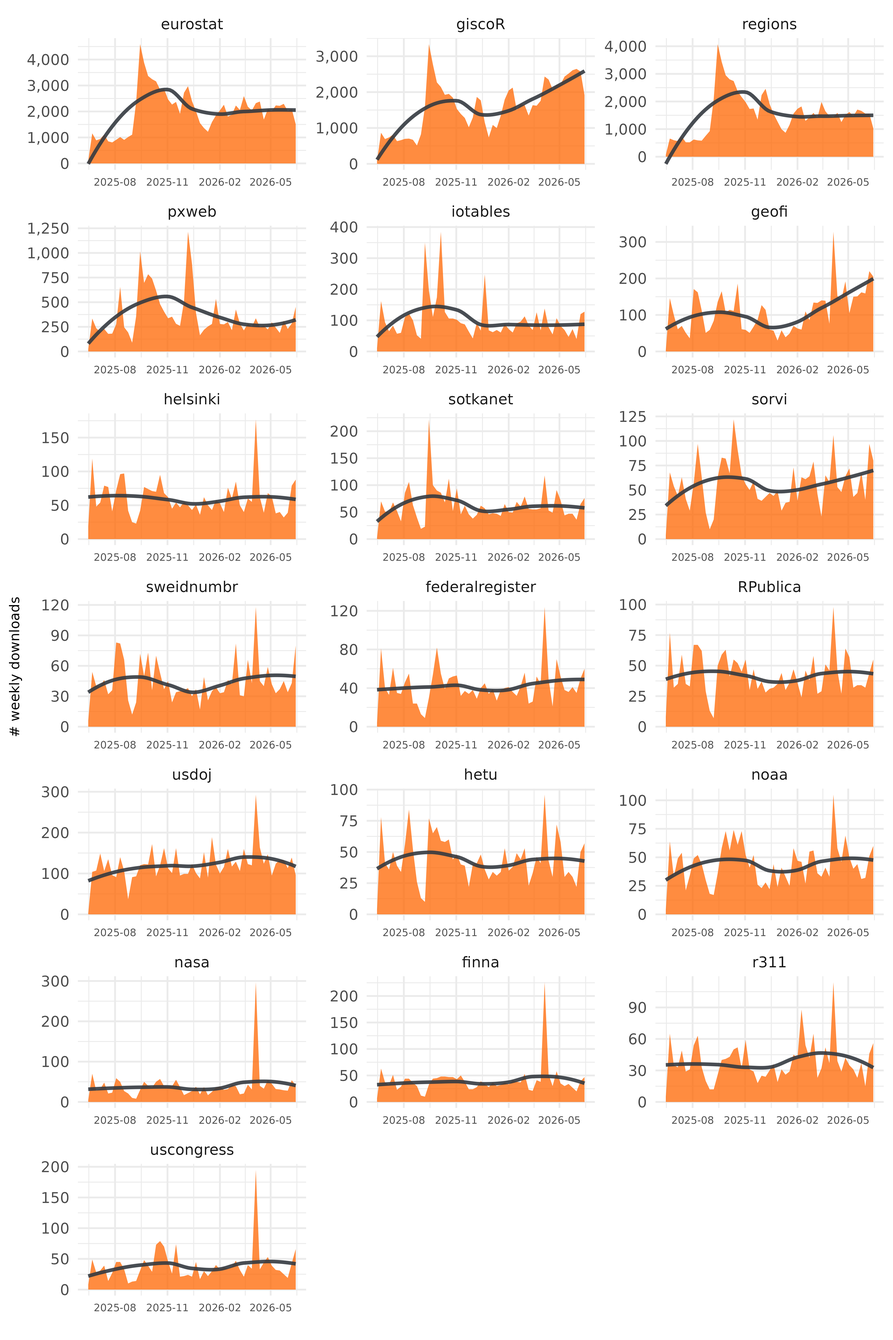
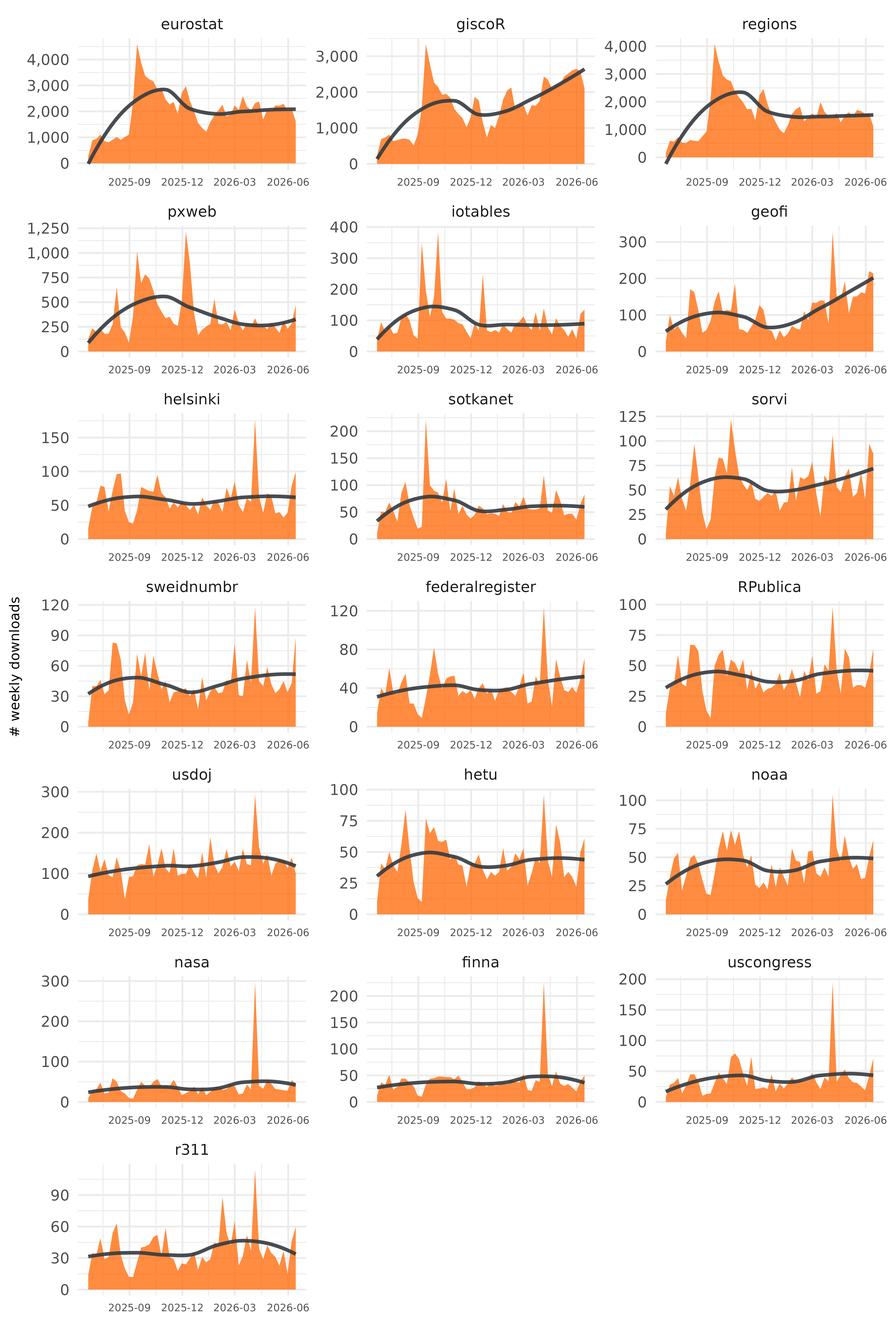
Built site for rogtemplate@0.0.2.9100: 40856eb

diff --git a/articles/downloads.html b/articles/downloads.html
@@ -97,7 +97,7 @@
 
     
     
-<p><em>Updated: 14 Jun 2026</em></p>
+<p><em>Updated: 20 Jun 2026</em></p>
 <div class="section level2">
 <h2 id="on-cran">On CRAN<a class="anchor" aria-label="anchor" href="#on-cran"></a>
 </h2>
@@ -117,7 +117,7 @@ from CRAN.</p>
 <h3 id="download-data">Download data<a class="anchor" aria-label="anchor" href="#download-data"></a>
 </h3>
 <div class="reactable html-widget html-fill-item" id="cran-dwn" style="width:auto;height:auto;"></div>
-<script type="application/json" data-for="cran-dwn">{"x":{"tag":{"name":"Reactable","attribs":{"data":{"package":["giscoR","eurostat","regions","pxweb","geofi","iotables","usdoj","helsinki","sorvi","sweidnumbr","sotkanet","uscongress","federalregister","noaa","hetu","r311","RPublica","finna","nasa"],"on CRAN":["2020-10-13","2015-03-20","2020-06-04","2014-09-04","2021-02-25","2018-01-30","2023-01-30","2014-04-13","2013-09-30","2014-09-06","2014-04-07","2025-05-12","2014-05-10","2025-05-14","2020-10-24","2024-07-16","2014-05-10","2025-01-22","2025-06-04"],"Latest CRAN Version":["2026-03-28","2023-12-19","2021-06-21","2024-01-29","2026-04-02","2025-09-01","2025-05-14","2022-12-02","2023-08-22","2024-01-13","2024-07-10","2025-10-06","2015-12-22","2025-05-14","2024-12-04","2026-01-30","2015-12-22","2025-01-22","2025-06-04"],"daily avg.":[98.3,100.9,80,28.8,14.7,15.2,7.5,12,10.6,10,10.9,5.6,9.5,6.4,6.8,5.6,8.6,5.8,5.9],"last day":[275,225,174,73,33,27,9,16,16,18,15,11,4,9,7,8,6,7,7],"last week":[1917,1509,1029,453,205,128,96,88,80,80,76,66,60,60,57,56,55,47,41],"last month":[10880,8943,6585,1353,824,383,552,258,314,224,253,168,208,200,175,163,184,149,169],"last year":[84298,105768,81372,19225,5763,5368,6396,3189,2971,2366,3321,2037,2236,2329,2334,2029,2250,2096,2092]},"columns":[{"id":"package","name":"package","type":"character","minWidth":150,"vAlign":"center","footerStyle":{"fontWeight":"bold"},"cell":[{"name":"div","attribs":{},"children":[{"name":"div","attribs":{"style":{"fontWeight":"bold"}},"children":[{"name":"a","attribs":{"href":"https://CRAN.R-project.org/package=giscoR","target":"_blank"},"children":["giscoR"]}]},{"name":"div","attribs":{"style":{"fontSize":"75%"}},"children":[{"name":"img","attribs":{"src":"https://badges.cranchecks.info/worst/giscoR.svg","alt":"giscoR"},"children":[]}]}]},{"name":"div","attribs":{},"children":[{"name":"div","attribs":{"style":{"fontWeight":"bold"}},"children":[{"name":"a","attribs":{"href":"https://CRAN.R-project.org/package=eurostat","target":"_blank"},"children":["eurostat"]}]},{"name":"div","attribs":{"style":{"fontSize":"75%"}},"children":[{"name":"img","attribs":{"src":"https://badges.cranchecks.info/worst/eurostat.svg","alt":"eurostat"},"children":[]}]}]},{"name":"div","attribs":{},"children":[{"name":"div","attribs":{"style":{"fontWeight":"bold"}},"children":[{"name":"a","attribs":{"href":"https://CRAN.R-project.org/package=regions","target":"_blank"},"children":["regions"]}]},{"name":"div","attribs":{"style":{"fontSize":"75%"}},"children":[{"name":"img","attribs":{"src":"https://badges.cranchecks.info/worst/regions.svg","alt":"regions"},"children":[]}]}]},{"name":"div","attribs":{},"children":[{"name":"div","attribs":{"style":{"fontWeight":"bold"}},"children":[{"name":"a","attribs":{"href":"https://CRAN.R-project.org/package=pxweb","target":"_blank"},"children":["pxweb"]}]},{"name":"div","attribs":{"style":{"fontSize":"75%"}},"children":[{"name":"img","attribs":{"src":"https://badges.cranchecks.info/worst/pxweb.svg","alt":"pxweb"},"children":[]}]}]},{"name":"div","attribs":{},"children":[{"name":"div","attribs":{"style":{"fontWeight":"bold"}},"children":[{"name":"a","attribs":{"href":"https://CRAN.R-project.org/package=geofi","target":"_blank"},"children":["geofi"]}]},{"name":"div","attribs":{"style":{"fontSize":"75%"}},"children":[{"name":"img","attribs":{"src":"https://badges.cranchecks.info/worst/geofi.svg","alt":"geofi"},"children":[]}]}]},{"name":"div","attribs":{},"children":[{"name":"div","attribs":{"style":{"fontWeight":"bold"}},"children":[{"name":"a","attribs":{"href":"https://CRAN.R-project.org/package=iotables","target":"_blank"},"children":["iotables"]}]},{"name":"div","attribs":{"style":{"fontSize":"75%"}},"children":[{"name":"img","attribs":{"src":"https://badges.cranchecks.info/worst/iotables.svg","alt":"iotables"},"children":[]}]}]},{"name":"div","attribs":{},"children":[{"name":"div","attribs":{"style":{"fontWeight":"bold"}},"children":[{"name":"a","attribs":{"href":"https://CRAN.R-project.org/package=usdoj","target":"_blank"},"children":["usdoj"]}]},{"name":"div","attribs":{"style":{"fontSize":"75%"}},"children":[{"name":"img","attribs":{"src":"https://badges.cranchecks.info/worst/usdoj.svg","alt":"usdoj"},"children":[]}]}]},{"name":"div","attribs":{},"children":[{"name":"div","attribs":{"style":{"fontWeight":"bold"}},"children":[{"name":"a","attribs":{"href":"https://CRAN.R-project.org/package=helsinki","target":"_blank"},"children":["helsinki"]}]},{"name":"div","attribs":{"style":{"fontSize":"75%"}},"children":[{"name":"img","attribs":{"src":"https://badges.cranchecks.info/worst/helsinki.svg","alt":"helsinki"},"children":[]}]}]},{"name":"div","attribs":{},"children":[{"name":"div","attribs":{"style":{"fontWeight":"bold"}},"children":[{"name":"a","attribs":{"href":"https://CRAN.R-project.org/package=sorvi","target":"_blank"},"children":["sorvi"]}]},{"name":"div","attribs":{"style":{"fontSize":"75%"}},"children":[{"name":"img","attribs":{"src":"https://badges.cranchecks.info/worst/sorvi.svg","alt":"sorvi"},"children":[]}]}]},{"name":"div","attribs":{},"children":[{"name":"div","attribs":{"style":{"fontWeight":"bold"}},"children":[{"name":"a","attribs":{"href":"https://CRAN.R-project.org/package=sweidnumbr","target":"_blank"},"children":["sweidnumbr"]}]},{"name":"div","attribs":{"style":{"fontSize":"75%"}},"children":[{"name":"img","attribs":{"src":"https://badges.cranchecks.info/worst/sweidnumbr.svg","alt":"sweidnumbr"},"children":[]}]}]},{"name":"div","attribs":{},"children":[{"name":"div","attribs":{"style":{"fontWeight":"bold"}},"children":[{"name":"a","attribs":{"href":"https://CRAN.R-project.org/package=sotkanet","target":"_blank"},"children":["sotkanet"]}]},{"name":"div","attribs":{"style":{"fontSize":"75%"}},"children":[{"name":"img","attribs":{"src":"https://badges.cranchecks.info/worst/sotkanet.svg","alt":"sotkanet"},"children":[]}]}]},{"name":"div","attribs":{},"children":[{"name":"div","attribs":{"style":{"fontWeight":"bold"}},"children":[{"name":"a","attribs":{"href":"https://CRAN.R-project.org/package=uscongress","target":"_blank"},"children":["uscongress"]}]},{"name":"div","attribs":{"style":{"fontSize":"75%"}},"children":[{"name":"img","attribs":{"src":"https://badges.cranchecks.info/worst/uscongress.svg","alt":"uscongress"},"children":[]}]}]},{"name":"div","attribs":{},"children":[{"name":"div","attribs":{"style":{"fontWeight":"bold"}},"children":[{"name":"a","attribs":{"href":"https://CRAN.R-project.org/package=federalregister","target":"_blank"},"children":["federalregister"]}]},{"name":"div","attribs":{"style":{"fontSize":"75%"}},"children":[{"name":"img","attribs":{"src":"https://badges.cranchecks.info/worst/federalregister.svg","alt":"federalregister"},"children":[]}]}]},{"name":"div","attribs":{},"children":[{"name":"div","attribs":{"style":{"fontWeight":"bold"}},"children":[{"name":"a","attribs":{"href":"https://CRAN.R-project.org/package=noaa","target":"_blank"},"children":["noaa"]}]},{"name":"div","attribs":{"style":{"fontSize":"75%"}},"children":[{"name":"img","attribs":{"src":"https://badges.cranchecks.info/worst/noaa.svg","alt":"noaa"},"children":[]}]}]},{"name":"div","attribs":{},"children":[{"name":"div","attribs":{"style":{"fontWeight":"bold"}},"children":[{"name":"a","attribs":{"href":"https://CRAN.R-project.org/package=hetu","target":"_blank"},"children":["hetu"]}]},{"name":"div","attribs":{"style":{"fontSize":"75%"}},"children":[{"name":"img","attribs":{"src":"https://badges.cranchecks.info/worst/hetu.svg","alt":"hetu"},"children":[]}]}]},{"name":"div","attribs":{},"children":[{"name":"div","attribs":{"style":{"fontWeight":"bold"}},"children":[{"name":"a","attribs":{"href":"https://CRAN.R-project.org/package=r311","target":"_blank"},"children":["r311"]}]},{"name":"div","attribs":{"style":{"fontSize":"75%"}},"children":[{"name":"img","attribs":{"src":"https://badges.cranchecks.info/worst/r311.svg","alt":"r311"},"children":[]}]}]},{"name":"div","attribs":{},"children":[{"name":"div","attribs":{"style":{"fontWeight":"bold"}},"children":[{"name":"a","attribs":{"href":"https://CRAN.R-project.org/package=RPublica","target":"_blank"},"children":["RPublica"]}]},{"name":"div","attribs":{"style":{"fontSize":"75%"}},"children":[{"name":"img","attribs":{"src":"https://badges.cranchecks.info/worst/RPublica.svg","alt":"RPublica"},"children":[]}]}]},{"name":"div","attribs":{},"children":[{"name":"div","attribs":{"style":{"fontWeight":"bold"}},"children":[{"name":"a","attribs":{"href":"https://CRAN.R-project.org/package=finna","target":"_blank"},"children":["finna"]}]},{"name":"div","attribs":{"style":{"fontSize":"75%"}},"children":[{"name":"img","attribs":{"src":"https://badges.cranchecks.info/worst/finna.svg","alt":"finna"},"children":[]}]}]},{"name":"div","attribs":{},"children":[{"name":"div","attribs":{"style":{"fontWeight":"bold"}},"children":[{"name":"a","attribs":{"href":"https://CRAN.R-project.org/package=nasa","target":"_blank"},"children":["nasa"]}]},{"name":"div","attribs":{"style":{"fontSize":"75%"}},"children":[{"name":"img","attribs":{"src":"https://badges.cranchecks.info/worst/nasa.svg","alt":"nasa"},"children":[]}]}]}],"rowHeader":true,"align":"left","sticky":"left"},{"id":"on CRAN","name":"on CRAN","type":"Date","minWidth":150,"vAlign":"center","footerStyle":{"fontWeight":"bold"}},{"id":"Latest CRAN Version","name":"Latest CRAN Version","type":"Date","minWidth":150,"vAlign":"center","footerStyle":{"fontWeight":"bold"}},{"id":"daily avg.","name":"daily avg.","type":"numeric","footer":"443,1","minWidth":150,"vAlign":"center","footerStyle":{"fontWeight":"bold"},"format":{"cell":{"separators":true},"aggregated":{"separators":true}}},{"id":"last day","name":"last day","type":"numeric","footer":"940","minWidth":150,"vAlign":"center","footerStyle":{"fontWeight":"bold"},"format":{"cell":{"separators":true},"aggregated":{"separators":true}}},{"id":"last week","name":"last week","type":"numeric","footer":"6.103","minWidth":150,"vAlign":"center","footerStyle":{"fontWeight":"bold"},"format":{"cell":{"separators":true},"aggregated":{"separators":true}}},{"id":"last month","name":"last month","type":"numeric","footer":"31.985","minWidth":150,"vAlign":"center","footerStyle":{"fontWeight":"bold"},"format":{"cell":{"separators":true},"aggregated":{"separators":true}}},{"id":"last year","name":"last year","type":"numeric","footer":"337.440","minWidth":150,"vAlign":"center","footerStyle":{"fontWeight":"bold"},"format":{"cell":{"separators":true},"aggregated":{"separators":true}}}],"filterable":true,"searchable":true,"showPageSizeOptions":true,"paginationType":"jump","striped":true,"elementId":"cran-dwn","dataKey":"2195a3a23ebe2e6e10f26dce922ac7d7"},"children":[]},"class":"reactR_markup"},"evals":[],"jsHooks":[]}</script>
+<script type="application/json" data-for="cran-dwn">{"x":{"tag":{"name":"Reactable","attribs":{"data":{"package":["giscoR","eurostat","regions","pxweb","usdoj","geofi","iotables","helsinki","sotkanet","sorvi","RPublica","finna","sweidnumbr","federalregister","hetu","noaa","uscongress","r311","nasa"],"on CRAN":["2020-10-13","2015-03-20","2020-06-04","2014-09-04","2023-01-30","2021-02-25","2018-01-30","2014-04-13","2014-04-07","2013-09-30","2014-05-10","2025-01-22","2014-09-06","2014-05-10","2020-10-24","2025-05-14","2025-05-12","2024-07-16","2025-06-04"],"Latest CRAN Version":["2026-06-17","2023-12-19","2021-06-21","2024-01-29","2025-05-14","2026-04-02","2025-09-01","2022-12-02","2024-07-10","2023-08-22","2015-12-22","2026-06-18","2024-01-13","2015-12-22","2024-12-04","2025-05-14","2025-10-06","2026-01-30","2025-06-04"],"daily avg.":[99,101.1,80.3,28.8,7.6,14.8,15.3,12,10.9,10.6,8.6,5.9,10,9.5,6.8,6.5,5.7,5.6,6],"last day":[315,236,166,66,51,52,28,20,24,25,20,21,19,15,16,17,13,14,11],"last week":[2085,1457,1163,382,166,161,128,106,106,99,94,91,87,82,75,75,75,66,58],"last month":[10662,8275,6217,1492,577,824,459,329,312,362,242,205,264,248,221,235,215,202,197],"last year":[85644,106229,81945,19378,6492,5801,5361,3173,3365,3003,2270,2129,2397,2247,2337,2348,2063,2039,2085]},"columns":[{"id":"package","name":"package","type":"character","minWidth":150,"vAlign":"center","footerStyle":{"fontWeight":"bold"},"cell":[{"name":"div","attribs":{},"children":[{"name":"div","attribs":{"style":{"fontWeight":"bold"}},"children":[{"name":"a","attribs":{"href":"https://CRAN.R-project.org/package=giscoR","target":"_blank"},"children":["giscoR"]}]},{"name":"div","attribs":{"style":{"fontSize":"75%"}},"children":[{"name":"img","attribs":{"src":"https://badges.cranchecks.info/worst/giscoR.svg","alt":"giscoR"},"children":[]}]}]},{"name":"div","attribs":{},"children":[{"name":"div","attribs":{"style":{"fontWeight":"bold"}},"children":[{"name":"a","attribs":{"href":"https://CRAN.R-project.org/package=eurostat","target":"_blank"},"children":["eurostat"]}]},{"name":"div","attribs":{"style":{"fontSize":"75%"}},"children":[{"name":"img","attribs":{"src":"https://badges.cranchecks.info/worst/eurostat.svg","alt":"eurostat"},"children":[]}]}]},{"name":"div","attribs":{},"children":[{"name":"div","attribs":{"style":{"fontWeight":"bold"}},"children":[{"name":"a","attribs":{"href":"https://CRAN.R-project.org/package=regions","target":"_blank"},"children":["regions"]}]},{"name":"div","attribs":{"style":{"fontSize":"75%"}},"children":[{"name":"img","attribs":{"src":"https://badges.cranchecks.info/worst/regions.svg","alt":"regions"},"children":[]}]}]},{"name":"div","attribs":{},"children":[{"name":"div","attribs":{"style":{"fontWeight":"bold"}},"children":[{"name":"a","attribs":{"href":"https://CRAN.R-project.org/package=pxweb","target":"_blank"},"children":["pxweb"]}]},{"name":"div","attribs":{"style":{"fontSize":"75%"}},"children":[{"name":"img","attribs":{"src":"https://badges.cranchecks.info/worst/pxweb.svg","alt":"pxweb"},"children":[]}]}]},{"name":"div","attribs":{},"children":[{"name":"div","attribs":{"style":{"fontWeight":"bold"}},"children":[{"name":"a","attribs":{"href":"https://CRAN.R-project.org/package=usdoj","target":"_blank"},"children":["usdoj"]}]},{"name":"div","attribs":{"style":{"fontSize":"75%"}},"children":[{"name":"img","attribs":{"src":"https://badges.cranchecks.info/worst/usdoj.svg","alt":"usdoj"},"children":[]}]}]},{"name":"div","attribs":{},"children":[{"name":"div","attribs":{"style":{"fontWeight":"bold"}},"children":[{"name":"a","attribs":{"href":"https://CRAN.R-project.org/package=geofi","target":"_blank"},"children":["geofi"]}]},{"name":"div","attribs":{"style":{"fontSize":"75%"}},"children":[{"name":"img","attribs":{"src":"https://badges.cranchecks.info/worst/geofi.svg","alt":"geofi"},"children":[]}]}]},{"name":"div","attribs":{},"children":[{"name":"div","attribs":{"style":{"fontWeight":"bold"}},"children":[{"name":"a","attribs":{"href":"https://CRAN.R-project.org/package=iotables","target":"_blank"},"children":["iotables"]}]},{"name":"div","attribs":{"style":{"fontSize":"75%"}},"children":[{"name":"img","attribs":{"src":"https://badges.cranchecks.info/worst/iotables.svg","alt":"iotables"},"children":[]}]}]},{"name":"div","attribs":{},"children":[{"name":"div","attribs":{"style":{"fontWeight":"bold"}},"children":[{"name":"a","attribs":{"href":"https://CRAN.R-project.org/package=helsinki","target":"_blank"},"children":["helsinki"]}]},{"name":"div","attribs":{"style":{"fontSize":"75%"}},"children":[{"name":"img","attribs":{"src":"https://badges.cranchecks.info/worst/helsinki.svg","alt":"helsinki"},"children":[]}]}]},{"name":"div","attribs":{},"children":[{"name":"div","attribs":{"style":{"fontWeight":"bold"}},"children":[{"name":"a","attribs":{"href":"https://CRAN.R-project.org/package=sotkanet","target":"_blank"},"children":["sotkanet"]}]},{"name":"div","attribs":{"style":{"fontSize":"75%"}},"children":[{"name":"img","attribs":{"src":"https://badges.cranchecks.info/worst/sotkanet.svg","alt":"sotkanet"},"children":[]}]}]},{"name":"div","attribs":{},"children":[{"name":"div","attribs":{"style":{"fontWeight":"bold"}},"children":[{"name":"a","attribs":{"href":"https://CRAN.R-project.org/package=sorvi","target":"_blank"},"children":["sorvi"]}]},{"name":"div","attribs":{"style":{"fontSize":"75%"}},"children":[{"name":"img","attribs":{"src":"https://badges.cranchecks.info/worst/sorvi.svg","alt":"sorvi"},"children":[]}]}]},{"name":"div","attribs":{},"children":[{"name":"div","attribs":{"style":{"fontWeight":"bold"}},"children":[{"name":"a","attribs":{"href":"https://CRAN.R-project.org/package=RPublica","target":"_blank"},"children":["RPublica"]}]},{"name":"div","attribs":{"style":{"fontSize":"75%"}},"children":[{"name":"img","attribs":{"src":"https://badges.cranchecks.info/worst/RPublica.svg","alt":"RPublica"},"children":[]}]}]},{"name":"div","attribs":{},"children":[{"name":"div","attribs":{"style":{"fontWeight":"bold"}},"children":[{"name":"a","attribs":{"href":"https://CRAN.R-project.org/package=finna","target":"_blank"},"children":["finna"]}]},{"name":"div","attribs":{"style":{"fontSize":"75%"}},"children":[{"name":"img","attribs":{"src":"https://badges.cranchecks.info/worst/finna.svg","alt":"finna"},"children":[]}]}]},{"name":"div","attribs":{},"children":[{"name":"div","attribs":{"style":{"fontWeight":"bold"}},"children":[{"name":"a","attribs":{"href":"https://CRAN.R-project.org/package=sweidnumbr","target":"_blank"},"children":["sweidnumbr"]}]},{"name":"div","attribs":{"style":{"fontSize":"75%"}},"children":[{"name":"img","attribs":{"src":"https://badges.cranchecks.info/worst/sweidnumbr.svg","alt":"sweidnumbr"},"children":[]}]}]},{"name":"div","attribs":{},"children":[{"name":"div","attribs":{"style":{"fontWeight":"bold"}},"children":[{"name":"a","attribs":{"href":"https://CRAN.R-project.org/package=federalregister","target":"_blank"},"children":["federalregister"]}]},{"name":"div","attribs":{"style":{"fontSize":"75%"}},"children":[{"name":"img","attribs":{"src":"https://badges.cranchecks.info/worst/federalregister.svg","alt":"federalregister"},"children":[]}]}]},{"name":"div","attribs":{},"children":[{"name":"div","attribs":{"style":{"fontWeight":"bold"}},"children":[{"name":"a","attribs":{"href":"https://CRAN.R-project.org/package=hetu","target":"_blank"},"children":["hetu"]}]},{"name":"div","attribs":{"style":{"fontSize":"75%"}},"children":[{"name":"img","attribs":{"src":"https://badges.cranchecks.info/worst/hetu.svg","alt":"hetu"},"children":[]}]}]},{"name":"div","attribs":{},"children":[{"name":"div","attribs":{"style":{"fontWeight":"bold"}},"children":[{"name":"a","attribs":{"href":"https://CRAN.R-project.org/package=noaa","target":"_blank"},"children":["noaa"]}]},{"name":"div","attribs":{"style":{"fontSize":"75%"}},"children":[{"name":"img","attribs":{"src":"https://badges.cranchecks.info/worst/noaa.svg","alt":"noaa"},"children":[]}]}]},{"name":"div","attribs":{},"children":[{"name":"div","attribs":{"style":{"fontWeight":"bold"}},"children":[{"name":"a","attribs":{"href":"https://CRAN.R-project.org/package=uscongress","target":"_blank"},"children":["uscongress"]}]},{"name":"div","attribs":{"style":{"fontSize":"75%"}},"children":[{"name":"img","attribs":{"src":"https://badges.cranchecks.info/worst/uscongress.svg","alt":"uscongress"},"children":[]}]}]},{"name":"div","attribs":{},"children":[{"name":"div","attribs":{"style":{"fontWeight":"bold"}},"children":[{"name":"a","attribs":{"href":"https://CRAN.R-project.org/package=r311","target":"_blank"},"children":["r311"]}]},{"name":"div","attribs":{"style":{"fontSize":"75%"}},"children":[{"name":"img","attribs":{"src":"https://badges.cranchecks.info/worst/r311.svg","alt":"r311"},"children":[]}]}]},{"name":"div","attribs":{},"children":[{"name":"div","attribs":{"style":{"fontWeight":"bold"}},"children":[{"name":"a","attribs":{"href":"https://CRAN.R-project.org/package=nasa","target":"_blank"},"children":["nasa"]}]},{"name":"div","attribs":{"style":{"fontSize":"75%"}},"children":[{"name":"img","attribs":{"src":"https://badges.cranchecks.info/worst/nasa.svg","alt":"nasa"},"children":[]}]}]}],"rowHeader":true,"align":"left","sticky":"left"},{"id":"on CRAN","name":"on CRAN","type":"Date","minWidth":150,"vAlign":"center","footerStyle":{"fontWeight":"bold"}},{"id":"Latest CRAN Version","name":"Latest CRAN Version","type":"Date","minWidth":150,"vAlign":"center","footerStyle":{"fontWeight":"bold"}},{"id":"daily avg.","name":"daily avg.","type":"numeric","footer":"445","minWidth":150,"vAlign":"center","footerStyle":{"fontWeight":"bold"},"format":{"cell":{"separators":true},"aggregated":{"separators":true}}},{"id":"last day","name":"last day","type":"numeric","footer":"1.129","minWidth":150,"vAlign":"center","footerStyle":{"fontWeight":"bold"},"format":{"cell":{"separators":true},"aggregated":{"separators":true}}},{"id":"last week","name":"last week","type":"numeric","footer":"6.556","minWidth":150,"vAlign":"center","footerStyle":{"fontWeight":"bold"},"format":{"cell":{"separators":true},"aggregated":{"separators":true}}},{"id":"last month","name":"last month","type":"numeric","footer":"31.538","minWidth":150,"vAlign":"center","footerStyle":{"fontWeight":"bold"},"format":{"cell":{"separators":true},"aggregated":{"separators":true}}},{"id":"last year","name":"last year","type":"numeric","footer":"340.306","minWidth":150,"vAlign":"center","footerStyle":{"fontWeight":"bold"},"format":{"cell":{"separators":true},"aggregated":{"separators":true}}}],"filterable":true,"searchable":true,"showPageSizeOptions":true,"paginationType":"jump","striped":true,"elementId":"cran-dwn","dataKey":"ec7b7f05bd3c02ce0d1beb831e7b78ed"},"children":[]},"class":"reactR_markup"},"evals":[],"jsHooks":[]}</script>
 </div>
 </div>
 <div class="section level2">
@@ -126,7 +126,7 @@ from CRAN.</p>
 <p>Downloads and data available of <a href="https://ropengov.org/" class="external-link">rOpenGov</a> packages from <a href="https://packagemanager.posit.co/client/#/" class="external-link">Posit Package
 Manager</a>.</p>
 <div class="reactable html-widget html-fill-item" id="posit-dwn" style="width:auto;height:auto;"></div>
-<script type="application/json" data-for="posit-dwn">{"x":{"tag":{"name":"Reactable","attribs":{"data":{"package":["eurostat","federalregister","finna","geofi","giscoR","helsinki","hetu","iotables","nasa","noaa","pxweb","r311","regions","RPublica","sorvi","sotkanet","sweidnumbr","uscongress","usdoj"],"Latest Version":["4.0.0","0.2.0","0.1.1","1.2.1","1.1.0","1.0.6","1.1.0","0.9.4","1.0.0","1.0.0","0.17.0","0.4.4","0.1.8","0.1.3","0.8.21","0.10.1","1.5.0","1.0.2","1.1.2"],"Version in CRAN":["2023-12-19","2015-12-22","2025-01-22","2026-04-02","2026-03-28","2022-12-02","2024-12-04","2025-09-01","2025-06-04","2025-05-14","2024-01-29","2026-01-30","2021-06-21","2015-12-22","2023-08-22","2024-07-10","2024-01-13","2025-10-06","2025-05-14"],"Package Size":["0.25 Mb","0.01 Mb","0.04 Mb","2.94 Mb","1.87 Mb","0.32 Mb","0.07 Mb","1.67 Mb","0.01 Mb","0.01 Mb","2.51 Mb","0.09 Mb","2.24 Mb","0.01 Mb","0.75 Mb","0.09 Mb","0.18 Mb","0 Mb","0 Mb"],"Downloads (Last month)":[0,0,0,0,0,0,0,0,0,0,0,0,0,0,0,0,0,0,0]},"columns":[{"id":"package","name":"package","type":"character","minWidth":150,"vAlign":"center","footerStyle":{"fontWeight":"bold"},"cell":[{"name":"div","attribs":{"style":{"fontWeight":"bold"}},"children":[{"name":"a","attribs":{"href":"https://packagemanager.posit.co/client/#/repos/cran/packages/eurostat/overview?search=eurostat#package-details","target":"_blank"},"children":["eurostat"]}]},{"name":"div","attribs":{"style":{"fontWeight":"bold"}},"children":[{"name":"a","attribs":{"href":"https://packagemanager.posit.co/client/#/repos/cran/packages/federalregister/overview?search=federalregister#package-details","target":"_blank"},"children":["federalregister"]}]},{"name":"div","attribs":{"style":{"fontWeight":"bold"}},"children":[{"name":"a","attribs":{"href":"https://packagemanager.posit.co/client/#/repos/cran/packages/finna/overview?search=finna#package-details","target":"_blank"},"children":["finna"]}]},{"name":"div","attribs":{"style":{"fontWeight":"bold"}},"children":[{"name":"a","attribs":{"href":"https://packagemanager.posit.co/client/#/repos/cran/packages/geofi/overview?search=geofi#package-details","target":"_blank"},"children":["geofi"]}]},{"name":"div","attribs":{"style":{"fontWeight":"bold"}},"children":[{"name":"a","attribs":{"href":"https://packagemanager.posit.co/client/#/repos/cran/packages/giscoR/overview?search=giscoR#package-details","target":"_blank"},"children":["giscoR"]}]},{"name":"div","attribs":{"style":{"fontWeight":"bold"}},"children":[{"name":"a","attribs":{"href":"https://packagemanager.posit.co/client/#/repos/cran/packages/helsinki/overview?search=helsinki#package-details","target":"_blank"},"children":["helsinki"]}]},{"name":"div","attribs":{"style":{"fontWeight":"bold"}},"children":[{"name":"a","attribs":{"href":"https://packagemanager.posit.co/client/#/repos/cran/packages/hetu/overview?search=hetu#package-details","target":"_blank"},"children":["hetu"]}]},{"name":"div","attribs":{"style":{"fontWeight":"bold"}},"children":[{"name":"a","attribs":{"href":"https://packagemanager.posit.co/client/#/repos/cran/packages/iotables/overview?search=iotables#package-details","target":"_blank"},"children":["iotables"]}]},{"name":"div","attribs":{"style":{"fontWeight":"bold"}},"children":[{"name":"a","attribs":{"href":"https://packagemanager.posit.co/client/#/repos/cran/packages/nasa/overview?search=nasa#package-details","target":"_blank"},"children":["nasa"]}]},{"name":"div","attribs":{"style":{"fontWeight":"bold"}},"children":[{"name":"a","attribs":{"href":"https://packagemanager.posit.co/client/#/repos/cran/packages/noaa/overview?search=noaa#package-details","target":"_blank"},"children":["noaa"]}]},{"name":"div","attribs":{"style":{"fontWeight":"bold"}},"children":[{"name":"a","attribs":{"href":"https://packagemanager.posit.co/client/#/repos/cran/packages/pxweb/overview?search=pxweb#package-details","target":"_blank"},"children":["pxweb"]}]},{"name":"div","attribs":{"style":{"fontWeight":"bold"}},"children":[{"name":"a","attribs":{"href":"https://packagemanager.posit.co/client/#/repos/cran/packages/r311/overview?search=r311#package-details","target":"_blank"},"children":["r311"]}]},{"name":"div","attribs":{"style":{"fontWeight":"bold"}},"children":[{"name":"a","attribs":{"href":"https://packagemanager.posit.co/client/#/repos/cran/packages/regions/overview?search=regions#package-details","target":"_blank"},"children":["regions"]}]},{"name":"div","attribs":{"style":{"fontWeight":"bold"}},"children":[{"name":"a","attribs":{"href":"https://packagemanager.posit.co/client/#/repos/cran/packages/RPublica/overview?search=RPublica#package-details","target":"_blank"},"children":["RPublica"]}]},{"name":"div","attribs":{"style":{"fontWeight":"bold"}},"children":[{"name":"a","attribs":{"href":"https://packagemanager.posit.co/client/#/repos/cran/packages/sorvi/overview?search=sorvi#package-details","target":"_blank"},"children":["sorvi"]}]},{"name":"div","attribs":{"style":{"fontWeight":"bold"}},"children":[{"name":"a","attribs":{"href":"https://packagemanager.posit.co/client/#/repos/cran/packages/sotkanet/overview?search=sotkanet#package-details","target":"_blank"},"children":["sotkanet"]}]},{"name":"div","attribs":{"style":{"fontWeight":"bold"}},"children":[{"name":"a","attribs":{"href":"https://packagemanager.posit.co/client/#/repos/cran/packages/sweidnumbr/overview?search=sweidnumbr#package-details","target":"_blank"},"children":["sweidnumbr"]}]},{"name":"div","attribs":{"style":{"fontWeight":"bold"}},"children":[{"name":"a","attribs":{"href":"https://packagemanager.posit.co/client/#/repos/cran/packages/uscongress/overview?search=uscongress#package-details","target":"_blank"},"children":["uscongress"]}]},{"name":"div","attribs":{"style":{"fontWeight":"bold"}},"children":[{"name":"a","attribs":{"href":"https://packagemanager.posit.co/client/#/repos/cran/packages/usdoj/overview?search=usdoj#package-details","target":"_blank"},"children":["usdoj"]}]}],"rowHeader":true,"align":"left","sticky":"left"},{"id":"Latest Version","name":"Latest Version","type":"character","minWidth":150,"vAlign":"center","footerStyle":{"fontWeight":"bold"}},{"id":"Version in CRAN","name":"Version in CRAN","type":"Date","minWidth":150,"vAlign":"center","footerStyle":{"fontWeight":"bold"}},{"id":"Package Size","name":"Package Size","type":"character","minWidth":150,"vAlign":"center","footerStyle":{"fontWeight":"bold"}},{"id":"Downloads (Last month)","name":"Downloads (Last month)","type":"numeric","footer":"0","minWidth":150,"vAlign":"center","footerStyle":{"fontWeight":"bold"},"format":{"cell":{"separators":true},"aggregated":{"separators":true}}}],"filterable":true,"searchable":true,"showPageSizeOptions":true,"paginationType":"jump","striped":true,"elementId":"posit-dwn","dataKey":"6b901e850b8aec90c1ad5e4e6bf405c8"},"children":[]},"class":"reactR_markup"},"evals":[],"jsHooks":[]}</script>
+<script type="application/json" data-for="posit-dwn">{"x":{"tag":{"name":"Reactable","attribs":{"data":{"package":["eurostat","federalregister","finna","geofi","giscoR","helsinki","hetu","iotables","nasa","noaa","pxweb","r311","regions","RPublica","sorvi","sotkanet","sweidnumbr","uscongress","usdoj"],"Latest Version":["4.0.0","0.2.0","0.1.2","1.2.1","1.1.1","1.0.6","1.1.0","0.9.4","1.0.0","1.0.0","0.17.0","0.4.4","0.1.8","0.1.3","0.8.21","0.10.1","1.5.0","1.0.2","1.1.2"],"Version in CRAN":["2023-12-19","2015-12-22","2026-06-18","2026-04-02","2026-06-17","2022-12-02","2024-12-04","2025-09-01","2025-06-04","2025-05-14","2024-01-29","2026-01-30","2021-06-21","2015-12-22","2023-08-22","2024-07-10","2024-01-13","2025-10-06","2025-05-14"],"Package Size":["0.25 Mb","0.01 Mb","0.09 Mb","2.94 Mb","1.87 Mb","0.32 Mb","0.07 Mb","1.67 Mb","0.01 Mb","0.01 Mb","2.51 Mb","0.09 Mb","2.24 Mb","0.01 Mb","0.75 Mb","0.09 Mb","0.18 Mb","0 Mb","0 Mb"],"Downloads (Last month)":[0,0,0,0,0,0,0,0,0,0,0,0,0,0,0,0,0,0,0]},"columns":[{"id":"package","name":"package","type":"character","minWidth":150,"vAlign":"center","footerStyle":{"fontWeight":"bold"},"cell":[{"name":"div","attribs":{"style":{"fontWeight":"bold"}},"children":[{"name":"a","attribs":{"href":"https://packagemanager.posit.co/client/#/repos/cran/packages/eurostat/overview?search=eurostat#package-details","target":"_blank"},"children":["eurostat"]}]},{"name":"div","attribs":{"style":{"fontWeight":"bold"}},"children":[{"name":"a","attribs":{"href":"https://packagemanager.posit.co/client/#/repos/cran/packages/federalregister/overview?search=federalregister#package-details","target":"_blank"},"children":["federalregister"]}]},{"name":"div","attribs":{"style":{"fontWeight":"bold"}},"children":[{"name":"a","attribs":{"href":"https://packagemanager.posit.co/client/#/repos/cran/packages/finna/overview?search=finna#package-details","target":"_blank"},"children":["finna"]}]},{"name":"div","attribs":{"style":{"fontWeight":"bold"}},"children":[{"name":"a","attribs":{"href":"https://packagemanager.posit.co/client/#/repos/cran/packages/geofi/overview?search=geofi#package-details","target":"_blank"},"children":["geofi"]}]},{"name":"div","attribs":{"style":{"fontWeight":"bold"}},"children":[{"name":"a","attribs":{"href":"https://packagemanager.posit.co/client/#/repos/cran/packages/giscoR/overview?search=giscoR#package-details","target":"_blank"},"children":["giscoR"]}]},{"name":"div","attribs":{"style":{"fontWeight":"bold"}},"children":[{"name":"a","attribs":{"href":"https://packagemanager.posit.co/client/#/repos/cran/packages/helsinki/overview?search=helsinki#package-details","target":"_blank"},"children":["helsinki"]}]},{"name":"div","attribs":{"style":{"fontWeight":"bold"}},"children":[{"name":"a","attribs":{"href":"https://packagemanager.posit.co/client/#/repos/cran/packages/hetu/overview?search=hetu#package-details","target":"_blank"},"children":["hetu"]}]},{"name":"div","attribs":{"style":{"fontWeight":"bold"}},"children":[{"name":"a","attribs":{"href":"https://packagemanager.posit.co/client/#/repos/cran/packages/iotables/overview?search=iotables#package-details","target":"_blank"},"children":["iotables"]}]},{"name":"div","attribs":{"style":{"fontWeight":"bold"}},"children":[{"name":"a","attribs":{"href":"https://packagemanager.posit.co/client/#/repos/cran/packages/nasa/overview?search=nasa#package-details","target":"_blank"},"children":["nasa"]}]},{"name":"div","attribs":{"style":{"fontWeight":"bold"}},"children":[{"name":"a","attribs":{"href":"https://packagemanager.posit.co/client/#/repos/cran/packages/noaa/overview?search=noaa#package-details","target":"_blank"},"children":["noaa"]}]},{"name":"div","attribs":{"style":{"fontWeight":"bold"}},"children":[{"name":"a","attribs":{"href":"https://packagemanager.posit.co/client/#/repos/cran/packages/pxweb/overview?search=pxweb#package-details","target":"_blank"},"children":["pxweb"]}]},{"name":"div","attribs":{"style":{"fontWeight":"bold"}},"children":[{"name":"a","attribs":{"href":"https://packagemanager.posit.co/client/#/repos/cran/packages/r311/overview?search=r311#package-details","target":"_blank"},"children":["r311"]}]},{"name":"div","attribs":{"style":{"fontWeight":"bold"}},"children":[{"name":"a","attribs":{"href":"https://packagemanager.posit.co/client/#/repos/cran/packages/regions/overview?search=regions#package-details","target":"_blank"},"children":["regions"]}]},{"name":"div","attribs":{"style":{"fontWeight":"bold"}},"children":[{"name":"a","attribs":{"href":"https://packagemanager.posit.co/client/#/repos/cran/packages/RPublica/overview?search=RPublica#package-details","target":"_blank"},"children":["RPublica"]}]},{"name":"div","attribs":{"style":{"fontWeight":"bold"}},"children":[{"name":"a","attribs":{"href":"https://packagemanager.posit.co/client/#/repos/cran/packages/sorvi/overview?search=sorvi#package-details","target":"_blank"},"children":["sorvi"]}]},{"name":"div","attribs":{"style":{"fontWeight":"bold"}},"children":[{"name":"a","attribs":{"href":"https://packagemanager.posit.co/client/#/repos/cran/packages/sotkanet/overview?search=sotkanet#package-details","target":"_blank"},"children":["sotkanet"]}]},{"name":"div","attribs":{"style":{"fontWeight":"bold"}},"children":[{"name":"a","attribs":{"href":"https://packagemanager.posit.co/client/#/repos/cran/packages/sweidnumbr/overview?search=sweidnumbr#package-details","target":"_blank"},"children":["sweidnumbr"]}]},{"name":"div","attribs":{"style":{"fontWeight":"bold"}},"children":[{"name":"a","attribs":{"href":"https://packagemanager.posit.co/client/#/repos/cran/packages/uscongress/overview?search=uscongress#package-details","target":"_blank"},"children":["uscongress"]}]},{"name":"div","attribs":{"style":{"fontWeight":"bold"}},"children":[{"name":"a","attribs":{"href":"https://packagemanager.posit.co/client/#/repos/cran/packages/usdoj/overview?search=usdoj#package-details","target":"_blank"},"children":["usdoj"]}]}],"rowHeader":true,"align":"left","sticky":"left"},{"id":"Latest Version","name":"Latest Version","type":"character","minWidth":150,"vAlign":"center","footerStyle":{"fontWeight":"bold"}},{"id":"Version in CRAN","name":"Version in CRAN","type":"Date","minWidth":150,"vAlign":"center","footerStyle":{"fontWeight":"bold"}},{"id":"Package Size","name":"Package Size","type":"character","minWidth":150,"vAlign":"center","footerStyle":{"fontWeight":"bold"}},{"id":"Downloads (Last month)","name":"Downloads (Last month)","type":"numeric","footer":"0","minWidth":150,"vAlign":"center","footerStyle":{"fontWeight":"bold"},"format":{"cell":{"separators":true},"aggregated":{"separators":true}}}],"filterable":true,"searchable":true,"showPageSizeOptions":true,"paginationType":"jump","striped":true,"elementId":"posit-dwn","dataKey":"c5d5773e939ec2b541ae0d679b8fb272"},"children":[]},"class":"reactR_markup"},"evals":[],"jsHooks":[]}</script>
 </div>
   </main><aside class="col-md-3"><nav id="toc" aria-label="Table of contents"><h2>On this page</h2>
     </nav></aside>

diff --git a/reference/rog_logo.html b/reference/rog_logo.html
@@ -128,7 +128,7 @@ would run <code><a href="https://usethis.r-lib.org/reference/use_logo.html" clas
 <span class="r-in"><span><span class="va">tmp</span> <span class="op">&lt;-</span> <span class="fu"><a href="https://rdrr.io/r/base/tempfile.html" class="external-link">tempfile</a></span><span class="op">(</span>fileext <span class="op">=</span> <span class="st">".png"</span><span class="op">)</span></span></span>
 <span class="r-in"><span><span class="fu">rog_logo</span><span class="op">(</span><span class="st">"test a package"</span>, <span class="va">tmp</span>, overwrite <span class="op">=</span> <span class="cn">FALSE</span>, favicons <span class="op">=</span> <span class="cn">FALSE</span><span class="op">)</span></span></span>
 <span class="r-msg co"><span class="r-pr">#&gt;</span> B612 Mono font loaded</span>
-<span class="r-msg co"><span class="r-pr">#&gt;</span> Logo created on /tmp/Rtmptr7ylM/file1d3c569760bd.png</span>
+<span class="r-msg co"><span class="r-pr">#&gt;</span> Logo created on /tmp/RtmpHgKOuj/file1d7043448766.png</span>
 <span class="r-in"><span></span></span>
 <span class="r-in"><span><span class="co"># Display</span></span></span>
 <span class="r-in"><span><span class="va">logo</span> <span class="op">&lt;-</span> <span class="fu">magick</span><span class="fu">::</span><span class="fu"><a href="https://docs.ropensci.org/magick/reference/editing.html" class="external-link">image_read</a></span><span class="op">(</span><span class="va">tmp</span><span class="op">)</span></span></span>

diff --git a/articles/test/quarto-features.html b/articles/test/quarto-features.html
@@ -230,8 +230,8 @@
 </h2>
 <div class="cell">
 <div class="cell-output-display">
-<div class="visual_diff html-widget html-fill-item" id="htmlwidget-a7cf52b3cac8e8a7c1bd" style="width:100%;height:auto;"></div>
-<script type="application/json" data-for="htmlwidget-a7cf52b3cac8e8a7c1bd">{"x":{"old":"a\nb\nc\nd\ne\nf\ng\nh\ni\nj\nk\nl\nm\nn\no\np\nq\nr\ns\nt\nu\nv\nw\nx\ny\nz\n","new":"a\nb\nc\nd\ne\nf\ng\nh\ni\nl\nm\nn\no\np\nq\nr\ns\nt\nu\nv\nw\nx\ny\nz\n","filename":"a.txt","typediff":"text"},"evals":[],"jsHooks":[]}</script>
+<div class="visual_diff html-widget html-fill-item" id="htmlwidget-6d9f9f3397d8c8c51121" style="width:100%;height:auto;"></div>
+<script type="application/json" data-for="htmlwidget-6d9f9f3397d8c8c51121">{"x":{"old":"a\nb\nc\nd\ne\nf\ng\nh\ni\nj\nk\nl\nm\nn\no\np\nq\nr\ns\nt\nu\nv\nw\nx\ny\nz\n","new":"a\nb\nc\nd\ne\nf\ng\nh\ni\nl\nm\nn\no\np\nq\nr\ns\nt\nu\nv\nw\nx\ny\nz\n","filename":"a.txt","typediff":"text"},"evals":[],"jsHooks":[]}</script>
 </div>
 </div>
 </section><section class="level2"><h2 id="keyboard">Keyboard<a class="anchor" aria-label="anchor" href="#keyboard"></a>

diff --git a/articles/test/widgets.html b/articles/test/widgets.html
@@ -104,7 +104,7 @@
 </h2>
 <p>Test spacing above widget.</p>
 <div class="visual_diff html-widget html-fill-item" id="htmlwidget-ac96cb3ee4656e2e9ec3" style="width:100%;height:auto;"></div>
-<script type="application/json" data-for="htmlwidget-ac96cb3ee4656e2e9ec3">{"x":{"old":"a\nb\nc\nd\ne\nf\ng\nh\ni\nj\nk\nl\nm\nn\no\np\nq\nr\ns\nt\nu\nv\nw\nx\ny\nz\n","new":"a\nb\nc\nd\ne\nf\ng\nh\ni\nl\nm\nn\no\np\nq\nr\ns\nt\nu\nv\nw\nx\ny\nz\n","filename":"file224b44b4dfb4","typediff":"text"},"evals":[],"jsHooks":[]}</script><p>Test spacing below widget.</p>
+<script type="application/json" data-for="htmlwidget-ac96cb3ee4656e2e9ec3">{"x":{"old":"a\nb\nc\nd\ne\nf\ng\nh\ni\nj\nk\nl\nm\nn\no\np\nq\nr\ns\nt\nu\nv\nw\nx\ny\nz\n","new":"a\nb\nc\nd\ne\nf\ng\nh\ni\nl\nm\nn\no\np\nq\nr\ns\nt\nu\nv\nw\nx\ny\nz\n","filename":"file227d663574d4","typediff":"text"},"evals":[],"jsHooks":[]}</script><p>Test spacing below widget.</p>
 </div>
   </main>
 </div>

diff --git a/reference/rog_logo.md b/reference/rog_logo.md
@@ -71,7 +71,7 @@ Other extras:
 tmp <- tempfile(fileext = ".png")
 rog_logo("test a package", tmp, overwrite = FALSE, favicons = FALSE)
 #> B612 Mono font loaded
-#> Logo created on /tmp/Rtmptr7ylM/file1d3c569760bd.png
+#> Logo created on /tmp/RtmpHgKOuj/file1d7043448766.png
 
 # Display
 logo <- magick::image_read(tmp)

diff --git a/articles/downloads.md b/articles/downloads.md
@@ -1,6 +1,6 @@
 # Downloads of rOpenGov packages
 
-*Updated: 14 Jun 2026*
+*Updated: 20 Jun 2026*
 
 ## On CRAN
 
